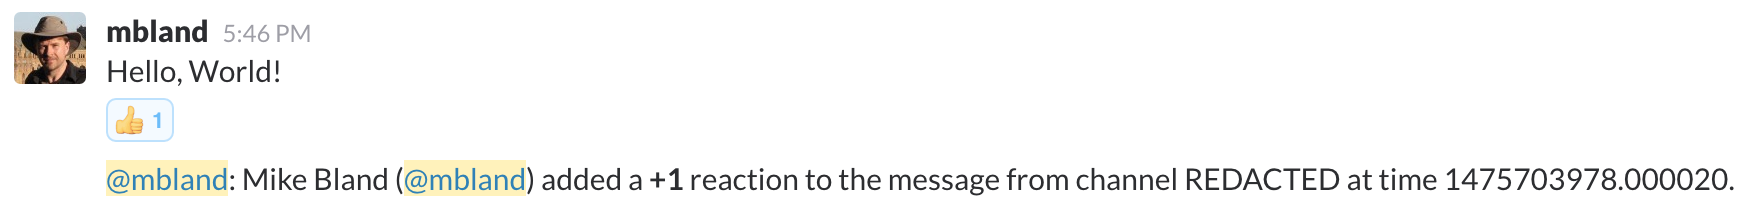
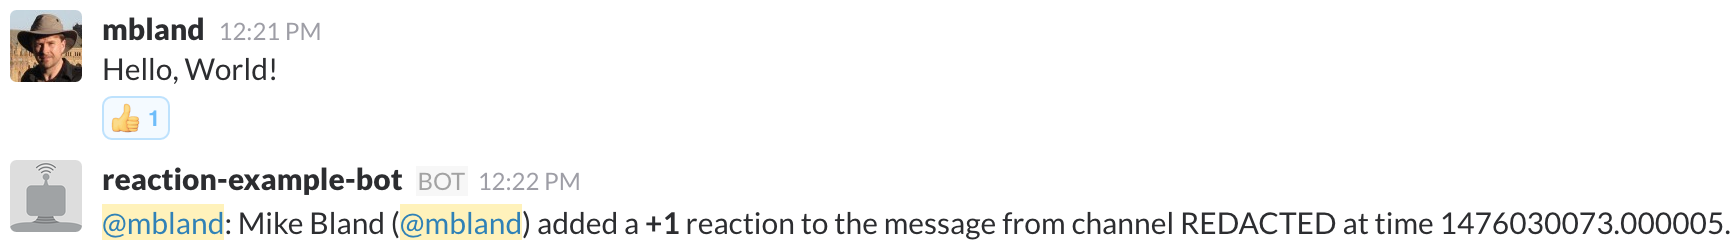
README: Update Slack bot instructions, example img

Changed region(s): [[0.0, 0.6486, 1.0, 1.0], [0.0, 0.027, 0.1866, 0.4054], [0.0622, 0.4324, 0.1244, 0.6486]]

diff --git a/README.md b/README.md
@@ -25,27 +25,22 @@ All of the example code is in `scripts/handle-reaction.coffee`.
 1. You must have administrator access for your Slack domain. Alternatively, you
    can [create your own personal slack domain][slack-create] for testing.
 
-1. If you don't have an existing API token handy, [create a new test
-   token][slack-test-token]. If you have to do this, open the
-   `node_modules/hubot-slack/src/bot.coffee` file and find the following line
-   from the `SlackBot.reaction` method:
-   ```coffeescript
-   return if (user == @self.id) || (user == @self.bot_id) #Ignore anything we sent
-   ```
-   Change the `(user == @self.id)` condition to use `!=` instead. This is
-   because the test token will cause your bot to run as your user, so any
-   reactions you add yourself will normally be discarded. (Of course you'd
-   normally associate a [Slack bot user][slack-bot-user] with your actual app.)
+1. Create a new [Slack bot user][slack-bot-user] for your team. Name it
+   anything you like, such as `reaction-example-bot`. Take note of the
+   API token, which should start with `xoxb-`.
+
+1. Invite the bot to a channel by `@`-mentioning it in the channel, e.g.
+   `@reaction-example-bot`.
 
 1. Run the bot:
    ```sh
-   $ HUBOT_SLACK_TOKEN=<your-test-token> ./bin/hubot --adapter slack
+   $ HUBOT_SLACK_TOKEN=<bot-test-token> ./bin/hubot --adapter slack
    ```
    you should see output like:
    ```
-   [Wed Oct 05 2016 17:46:50 GMT-0400 (EDT)] INFO Logged in as mbland of mbland
-   [Wed Oct 05 2016 17:46:50 GMT-0400 (EDT)] INFO Slack client now connected
-   [Wed Oct 05 2016 17:46:50 GMT-0400 (EDT)] INFO Listening for reaction_added, reaction_removed events
+   [Sun Oct 09 2016 12:22:12 GMT-0400 (EDT)] INFO Logged in as reaction-example-bot of mbland
+   [Sun Oct 09 2016 12:22:12 GMT-0400 (EDT)] INFO Slack client now connected
+   [Sun Oct 09 2016 12:22:12 GMT-0400 (EDT)] INFO Listening for reaction_added, reaction_removed events
    ```
 
 1. Post a message in your Slack domain and add an emoji reaction to it.
@@ -56,13 +51,11 @@ Now you should see something like:
 <img src='./example.png' alt='Usage example' title='Usage example' /><br/>
 <figcaption>After the message received the <em>+1</em> emoji reaction, the
 example bot posted a response to the channel reporting the details of the
-event. Notice that the bot runs as the user that created the API token, which
-is why we needed to edit <code>SlackBot.reaction</code> above.</figcaption>
+event.</figcaption>
 </figure>
 
 [slack-create]: https://slack.com/create
 [slack-bot-user]: https://api.slack.com/bot-users]
-[slack-test-token]: https://api.slack.com/docs/oauth-test-tokens
 
 ## Copyright
 
